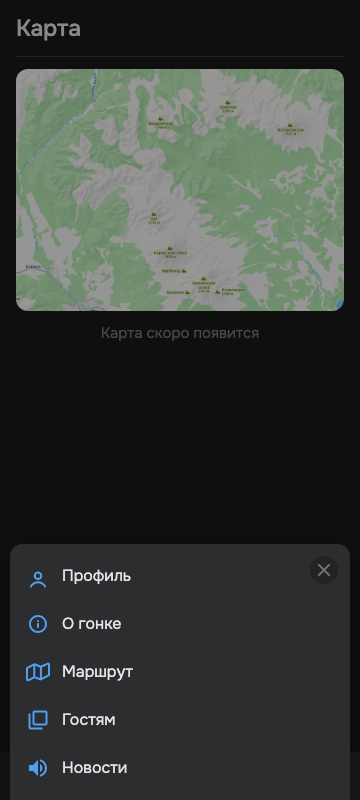
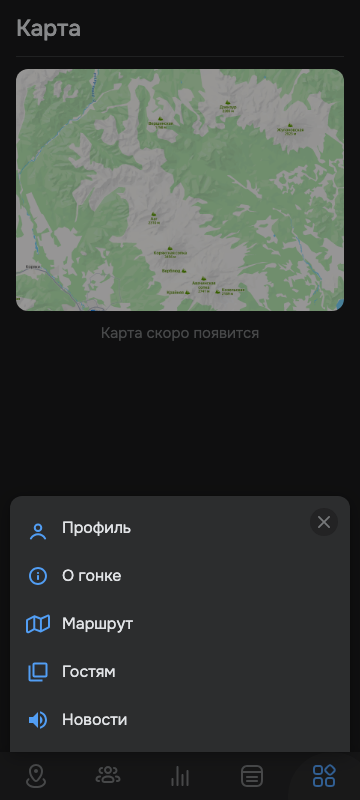
fix(v2): таббар без подписей по макету

Changed region(s): [[0.0306, 0.5938, 0.9778, 1.0], [0.1833, 0.875, 0.3667, 0.9062]]

diff --git a/src/index.css b/src/index.css
@@ -21,7 +21,8 @@ body {
 }
 
 :root {
-  --app-tabbar-height: 56px;
+  --app-tabbar-height: 48px;
+  --app-tabbar-total-height: calc(var(--app-tabbar-height) + env(safe-area-inset-bottom, 0px));
 }
 
 .app-frame {
@@ -637,6 +638,54 @@ body {
   transform: translateX(-50%);
 }
 
+.app-tabbar.vkuiTabbar__host {
+  box-sizing: border-box;
+  display: flex;
+  align-items: stretch;
+  height: var(--app-tabbar-total-height);
+  min-height: var(--app-tabbar-total-height);
+  padding: 0 0 env(safe-area-inset-bottom, 0px);
+  border: 0;
+  background: var(--vkui--color_background_secondary);
+  box-shadow:
+    0 -4px 16px rgba(0, 0, 0, 0.08),
+    0 0 2px rgba(0, 0, 0, 0.08);
+}
+
+.app-tabbar .vkuiTabbarItem__host {
+  flex: 1 1 0;
+  min-width: 0;
+  height: var(--app-tabbar-height);
+  max-height: var(--app-tabbar-height);
+  padding: 0;
+  margin: 0;
+}
+
+.app-tabbar .vkuiTabbarItem__tappable {
+  inset: 0;
+}
+
+.app-tabbar .vkuiTabbarItem__in {
+  display: flex;
+  align-items: center;
+  justify-content: center;
+  height: 100%;
+  min-height: var(--app-tabbar-height);
+  padding: 0;
+  margin: 0;
+}
+
+.app-tabbar .vkuiTabbarItem__icon {
+  display: flex;
+  align-items: center;
+  justify-content: center;
+  width: 28px;
+  height: 28px;
+  margin: 0;
+  padding: 0;
+  color: var(--vkui--color_icon_secondary);
+}
+
 .app-tabbar__icon {
   display: flex;
   align-items: center;
@@ -652,13 +701,17 @@ body {
   height: 28px;
 }
 
-.app-tabbar .vkuiTabbarItem__icon {
-  color: var(--vkui--color_icon_secondary);
+.app-tabbar .vkuiTabbarItem__selected .vkuiTabbarItem__icon {
+  color: var(--vkui--color_icon_accent);
 }
 
-.app-tabbar .vkuiTabbarItem__selected .vkuiTabbarItem__icon,
-.app-tabbar .vkuiTabbarItem__selected .vkuiTabbarItem__label {
-  color: var(--vkui--color_icon_accent);
+.app-tabbar .vkuiTabbarItem__label {
+  display: none;
+}
+
+.app-shell__body .vkuiInternalEpic--hasTabbar > div:first-child {
+  box-sizing: border-box;
+  padding-bottom: var(--app-tabbar-total-height);
 }
 
 .more-menu-sheet {
@@ -669,7 +722,7 @@ body {
   display: flex;
   align-items: flex-end;
   justify-content: center;
-  padding: 0 10px 0;
+  padding: 0 10px var(--app-tabbar-total-height);
   pointer-events: none;
 }
 

diff --git a/src/components/AppTabbar.tsx b/src/components/AppTabbar.tsx
@@ -76,12 +76,12 @@ export function AppTabbar({
   const routeNavigator = useRouteNavigator()
 
   return (
-    <Tabbar className="app-tabbar" mode="vertical">
+    <Tabbar className="app-tabbar" mode="vertical" plain>
       {tabs.map((tab) => (
         <TabbarItem
           key={tab.id}
           selected={tabSelected(tab, activeView, activePanel, moreMenuOpen)}
-          label={tab.label}
+          aria-label={tab.label}
           onClick={() => {
             if (tab.id === 'more') {
               onOpenMoreMenu()
